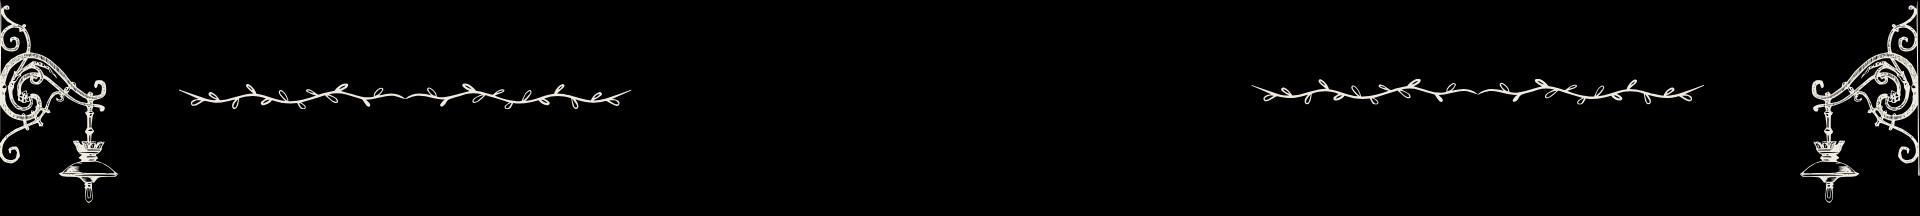
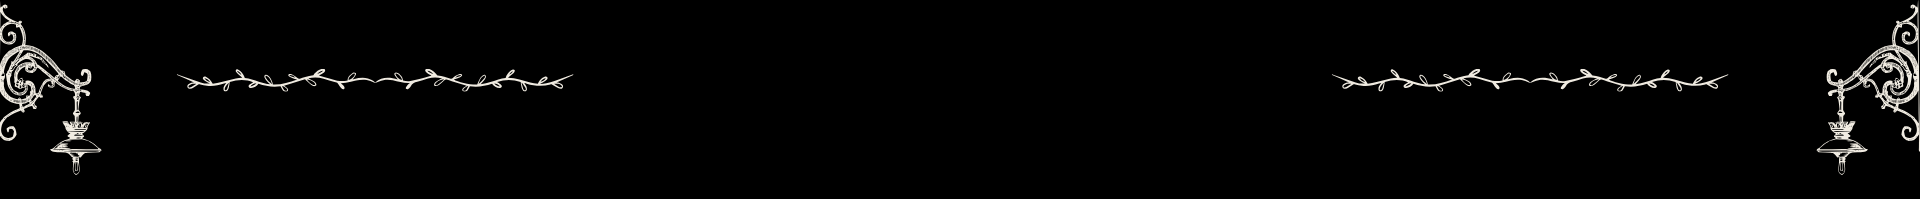
Fixed TDD Header.

diff --git a/portfolio.html b/portfolio.html
@@ -608,6 +608,7 @@
       line-height: 1.2;
       font-size: clamp(32px, 5vw, 45px);
       color: #faf8f3;
+      word-spacing: 8px;
     }
 
     .section-masthead .sub {
